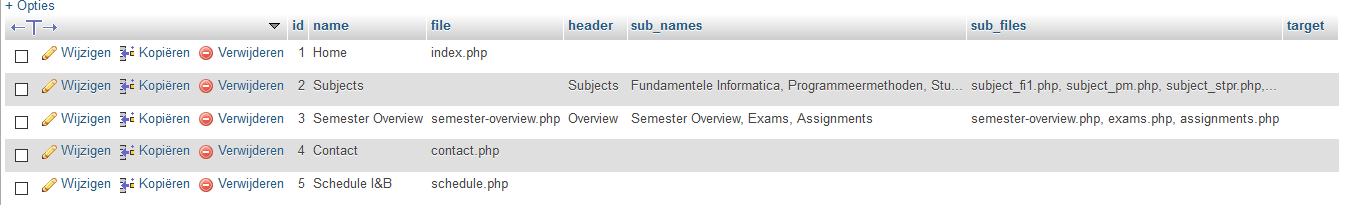
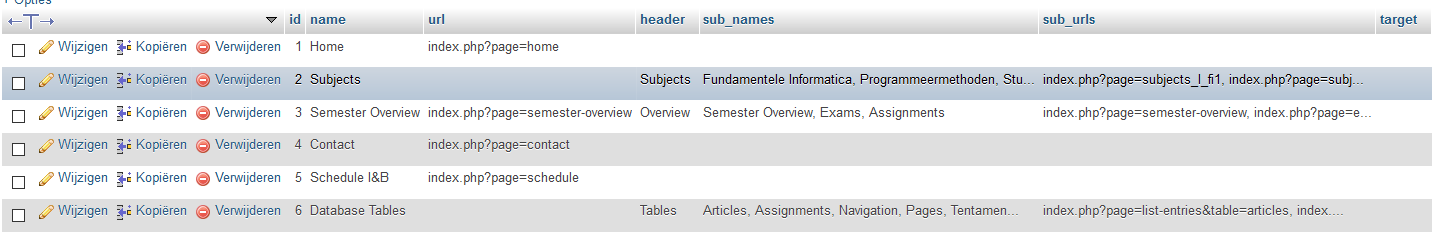
Add discord widget to informatics pages

diff --git a/style.css b/style.css
@@ -115,6 +115,12 @@ body {
     background-color: #fff;
 }
 
+.discord {
+	width: 100%;
+	height: 600px;
+	margin-bottom: 16px;
+}
+
 .paragraph-center, .paragraph-left, .paragraph-right {
 	padding: 0px;
 	margin-bottom: 15px;

diff --git a/php/content.php b/php/content.php
@@ -22,7 +22,7 @@ function getTableAssignments () {
 		$content .= '<td>'.$row->start_date.'</td>';
 		$content .= '<td>'.$row->end_date.'</td>';
 		$content .= '<td>'.$row->subject.'</td>'; 
-		$content .= '<td><a href="assignments_item.php?id='.$row->id.'">'.$row->desc_short.'</a></td>';
+		$content .= '<td><a href="index.php?page=assignments_item&id='.$row->id.'">'.$row->desc_short.'</a></td>';
 		$content .= '<td>'.$row->team.'</td>';
 		
 		$content .= '<td>';
@@ -152,7 +152,7 @@ function getItemAssignment ($item_id) {
 				$item .= '</p>';
 			}
 			
-			$item .= '<a class="button edit-item-button" href="edit-entry.php?table=assignments&id='.$item_id.'">Edit Item</a>';
+			$item .= '<a class="button edit-item-button" href="index.php?page=edit-entry&table=assignments&id='.$item_id.'">Edit Item</a>';
 			
 			if (!empty($row->link_report)) {
 				$item .= '</div>';
@@ -168,7 +168,7 @@ function getItemAssignment ($item_id) {
 }
 
 function getEditItemForm ($table, $id) {
-	$form = '<form action="edit-entry.php?table='.$table.'&id='.$id.'" method="POST">';
+	$form = '<form action="index.php?page=edit-entry&table='.$table.'&id='.$id.'" method="POST">';
 	if ($id != 'create') {
 		if ($currentEntryTable = getEntryWithId($table, $id)) {
 			$currentEntry = $currentEntryTable->fetch_assoc();
@@ -275,7 +275,7 @@ function getDataItemsList ($table) {
 				$content .= '<td>'.$row[$field].'</td>';
 			}
 
-			$content .= '<td><a href="edit-entry.php?table='.$table.'&id='.$row['id'].'">Edit</a></td>';
+			$content .= '<td><a href="index.php?page=edit-entry&table='.$table.'&id='.$row['id'].'">Edit</a></td>';
 			$content .= '</tr>';
 		}
 	}
@@ -286,7 +286,7 @@ function getDataItemsList ($table) {
 	
 	$headers[$i] = 'Edit';
 	$ret = buildFancyTable('items', $headers, $content);
-	$ret .= '<p><a class="button" href="edit-entry.php?table='.$table.'&id=create">Add Item</a></p>';
+	$ret .= '<p><a class="button" href="index.php?page=edit-entry&table='.$table.'&id=create">Add Item</a></p>';
 	
 	return $ret;
 }

diff --git a/php/items.php b/php/items.php
@@ -66,6 +66,14 @@ function buildListItem ($title, $location, $target, $active) {
 	return $ret;
 }
 
+function discordSidebarI () {
+	return '<iframe class="discord" src="https://discordapp.com/widget?id=107472497242275840&theme=dark" allowtransparency="true" frameborder="0"></iframe>';
+}
+
+function discordSidebarB () {
+	return '';
+}
+
 function mainnavContent ($active) {
 	$table = getAllEntries('navigation');
 	$navbar = '<nav class="navbar navbar-blue">

diff --git a/index.php b/index.php
@@ -47,6 +47,12 @@ if (isset($_GET['page']) && !empty($_GET['page'])) {
 		echo getViewForPage ($page, $GET, $_POST, $_FILES);
 		echo '</div>';
 		echo '<div class="col-sm-2" id="content-left">';
+		if (strpos($page->page, 'subjects_I_') !== false) {
+			echo discordSidebarI();
+		}
+		if (strpos($page->page, 'subjects_B_') !== false) {
+			echo discordSidebarB();
+		}
 		echo '</div>';
 		echo '</div></div>';
 		
